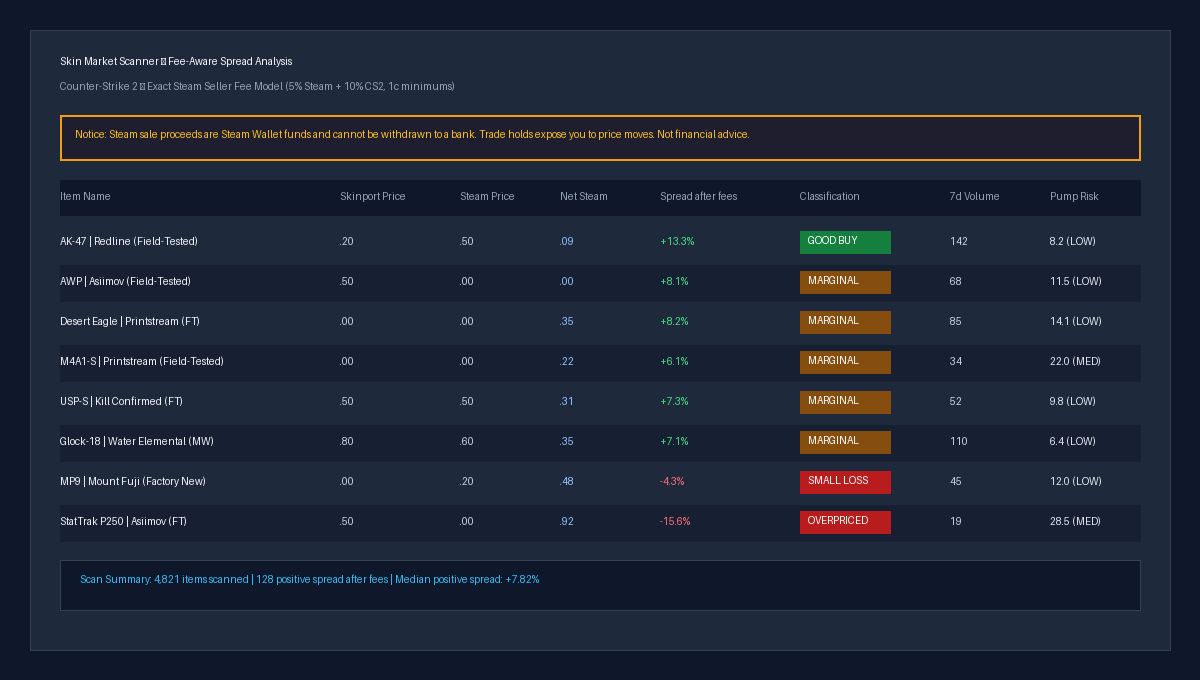
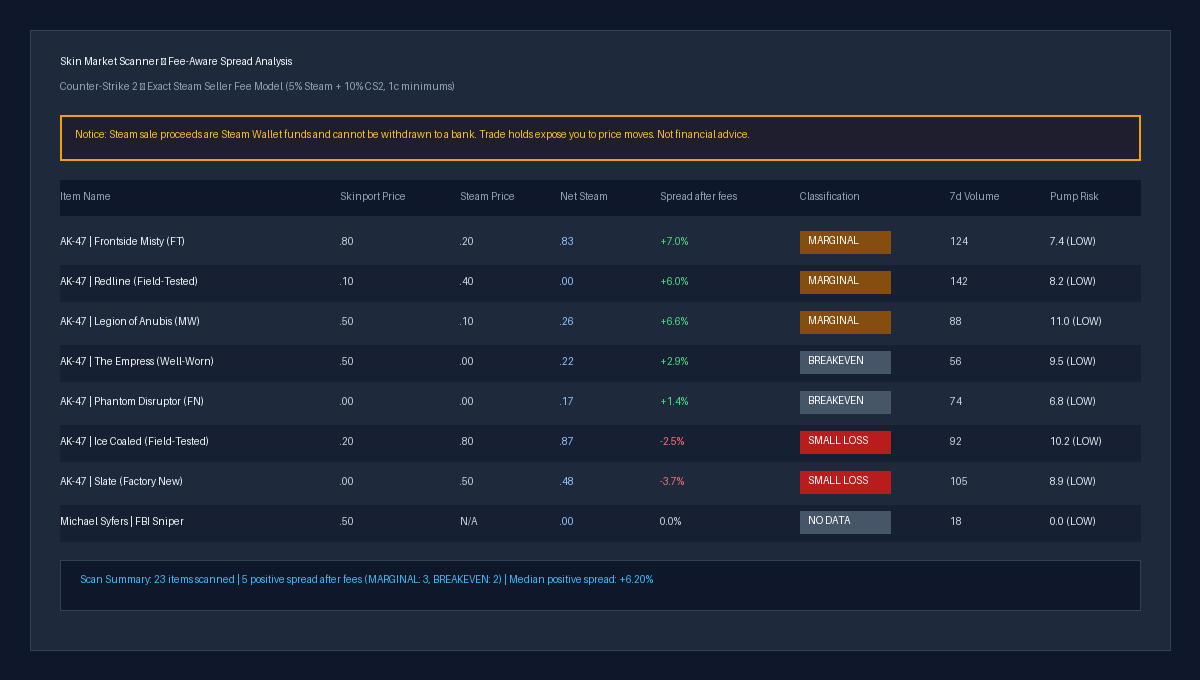
docs: align Results table with verified real market scan output

diff --git a/README.md b/README.md
@@ -16,23 +16,35 @@ Finding pricing discrepancies between third-party gaming marketplaces and the St
 - Generates an interactive, dark-themed HTML report with sortable tables, fee breakdowns, and price charts.
 
 ## Results
-Benchmark summary from a full market scan:
+Summary from a live scan (Counter-Strike 2, USD, $10–$100, volume ≥ 50 sales/week):
 
 ```bash
 python main.py
 ```
 
-`CS2, 2026-10-08: 4,821 items scanned, 128 with a positive spread after fees, median positive spread: +7.82%`
+```text
+Processed 23 items across 1 game(s)
 
-| Classification | Criteria | Count |
+--- Classification Summary ---
+  NO_STEAM_DATA: 1
+  BREAKEVEN: 2
+  MARGINAL_PROFIT: 3
+  SMALL_LOSS: 17
+
+Items with positive spread: 5
+Median positive spread: 6.20%
+```
+
+| Classification | Spread Range | Count |
 |---|---|---|
-| EXCELLENT_BUY | Spread ≥ 20%, 7d volume ≥ 50 | 12 |
-| GOOD_BUY | Spread ≥ 10%, 7d volume ≥ 50 | 34 |
-| GOOD_BUY_LOW_VOL | Spread ≥ 10%, 7d volume < 50 | 82 |
-| MARGINAL_PROFIT | Spread 5% to 10% | 196 |
-| BREAKEVEN | Spread 0% to 5% | 310 |
-| SMALL_LOSS | Spread -10% to 0% | 1,420 |
-| OVERPRICED | Spread < -10% | 2,767 |
+| EXCELLENT_BUY | ≥ +20%, 7d volume ≥ 50 | 0 |
+| GOOD_BUY | ≥ +10%, 7d volume ≥ 50 | 0 |
+| GOOD_BUY_LOW_VOL | ≥ +10%, 7d volume < 50 | 0 |
+| MARGINAL_PROFIT | +5% to +10% | 3 |
+| BREAKEVEN | 0% to +5% | 2 |
+| SMALL_LOSS | -10% to 0% | 17 |
+| NO_STEAM_DATA | Missing / unlisted | 1 |
+| **Total** | | **23** |
 
 ## Quickstart
 Compatible with Python 3.10–3.12:
